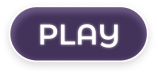
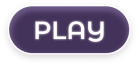
added credits button and refactored intro scenes

diff --git a/components/title.js b/components/title.js
@@ -9,7 +9,7 @@ Crafty.c("TitleBG", {
 Crafty.c("TitleFG", {
     init: function () {
         this.addComponent('2D, DOM, Image');
-        this.attr({x: (1200-811)/2, y: 100, w: 811, h: 484});
+        this.attr({x: (1200 - 811) / 2, y: (800 - 484) / 2, w: 811, h: 484});
         this.image("assets/images/title/title_billboard.png");
     }
 });
@@ -17,7 +17,31 @@ Crafty.c("TitleFG", {
 Crafty.c("PlayButton", {
     init: function () {
         this.addComponent('2D, DOM, Image, Mouse');
-        this.attr({x: 275, y: 420, w: 158, h: 74});
+        this.attr({x: 275, y: 475, w: 139, h: 65});
         this.image("assets/images/buttons/play_button.png");
+    }
+});
+
+Crafty.c("CreditsButton", {
+    init: function () {
+        this.addComponent('2D, DOM, Image, Mouse');
+        this.attr({x: 745, y: 475, w: 172, h: 65});
+        this.image("assets/images/buttons/credits_button.png");
+    }
+});
+
+Crafty.c("PlayButton", {
+    init: function () {
+        this.addComponent('2D, DOM, Image, Mouse');
+        this.attr({x: 275, y: 475, w: 158, h: 74});
+        this.image("assets/images/buttons/play_button.png");
+    }
+});
+
+Crafty.c("StoneIcon", {
+    init: function () {
+        this.addComponent('2D, DOM, stone_green');
+        this.attr({x: 510, y: 85, h: 200, w: 200})
+        // this.image("assets/images/stone_green.png");
     }
 });

diff --git a/components/player_notifications.js b/components/player_notifications.js
@@ -25,7 +25,6 @@ Crafty.c("PlayerNotification", {
     decayMessage: function () {
         this.alpha -= 0.1;
         return this;
-        return this;
     },
 
     setMessageEvents: function () {
@@ -38,9 +37,9 @@ Crafty.c("PlayerNotification", {
         });
 
         this.bind("NEW_SANITY_STATE", function (state) {
-            if (state === STABILITY.HIGH) { // You are starting to see more chaotic stuff for the first time
+            if (state === STABILITY.LOW) { // You are starting to see more chaotic stuff for the first time
                 this.trigger("InstructionText", "My emotions are getting stronger... what's happening to this place?");
-            } else if (state === STABILITY.LOW) { //
+            } else if (state === STABILITY.HIGH) { //
                 this.trigger("InstructionText", "My emotions are still there, but I can see past them for the first time...");
             }
         });

diff --git a/scenes/title_screen.js b/scenes/title_screen.js
@@ -10,8 +10,14 @@ Crafty.defineScene('Title', function () {
             // User has interact with DOM, so we can now autoplay sound
             audioController.canPlay = true;
             audioController.playTrack('theme')
-            Crafty.scene("Loading");
+            Crafty.trigger("NextLevel");
         });
+    var creditsButton = Crafty.e("CreditsButton")
+        .bind('Click', function (MouseEvent) {
+            // User has interact with DOM, so we can now autoplay sound
+            console.log("credits hehe")
+        });
+    var stoneIcon = Crafty.e("StoneIcon");
 });
 
 

diff --git a/index.html b/index.html
@@ -60,6 +60,7 @@
     <script type="text/javascript" src="components/sanity_wall.js"></script>
     <script type="text/javascript" src="components/sanity_zone.js"></script>
     <script type="text/javascript" src="components/spike_bush.js"></script>
+    <script type="text/javascript" src="components/story_trigger.js"></script>
     <script type="text/javascript" src="components/title.js"></script>
     <script type="text/javascript" src="components/player_notifications.js"></script>
 

diff --git a/main.js b/main.js
@@ -9,7 +9,7 @@ var totalSecondsInsane = 0.0;
 const audioController = Crafty.e("AudioController");
 Crafty.init(GAME_SCREEN_WIDTH, GAME_SCREEN_HEIGHT, document.getElementById('game'));
 
-Crafty.scene("Title");
+Crafty.scene("Loading");
 // Controllers.
 const levelController = Crafty.e("LevelController");
 const sanityController = Crafty.e("SanityController");

diff --git a/scenes/loading.js b/scenes/loading.js
@@ -10,7 +10,7 @@ Crafty.defineScene("Loading", function () {
 
     Crafty.load(gameAssets, function () {
         console.info('Loaded successfully');
-        Crafty.trigger("NextLevel");
+        Crafty.scene("Title");
     }, function (progress) {
         if (DEBUG) {
             console.log(`Loading (${progress.loaded} / ${progress.total})...`);
